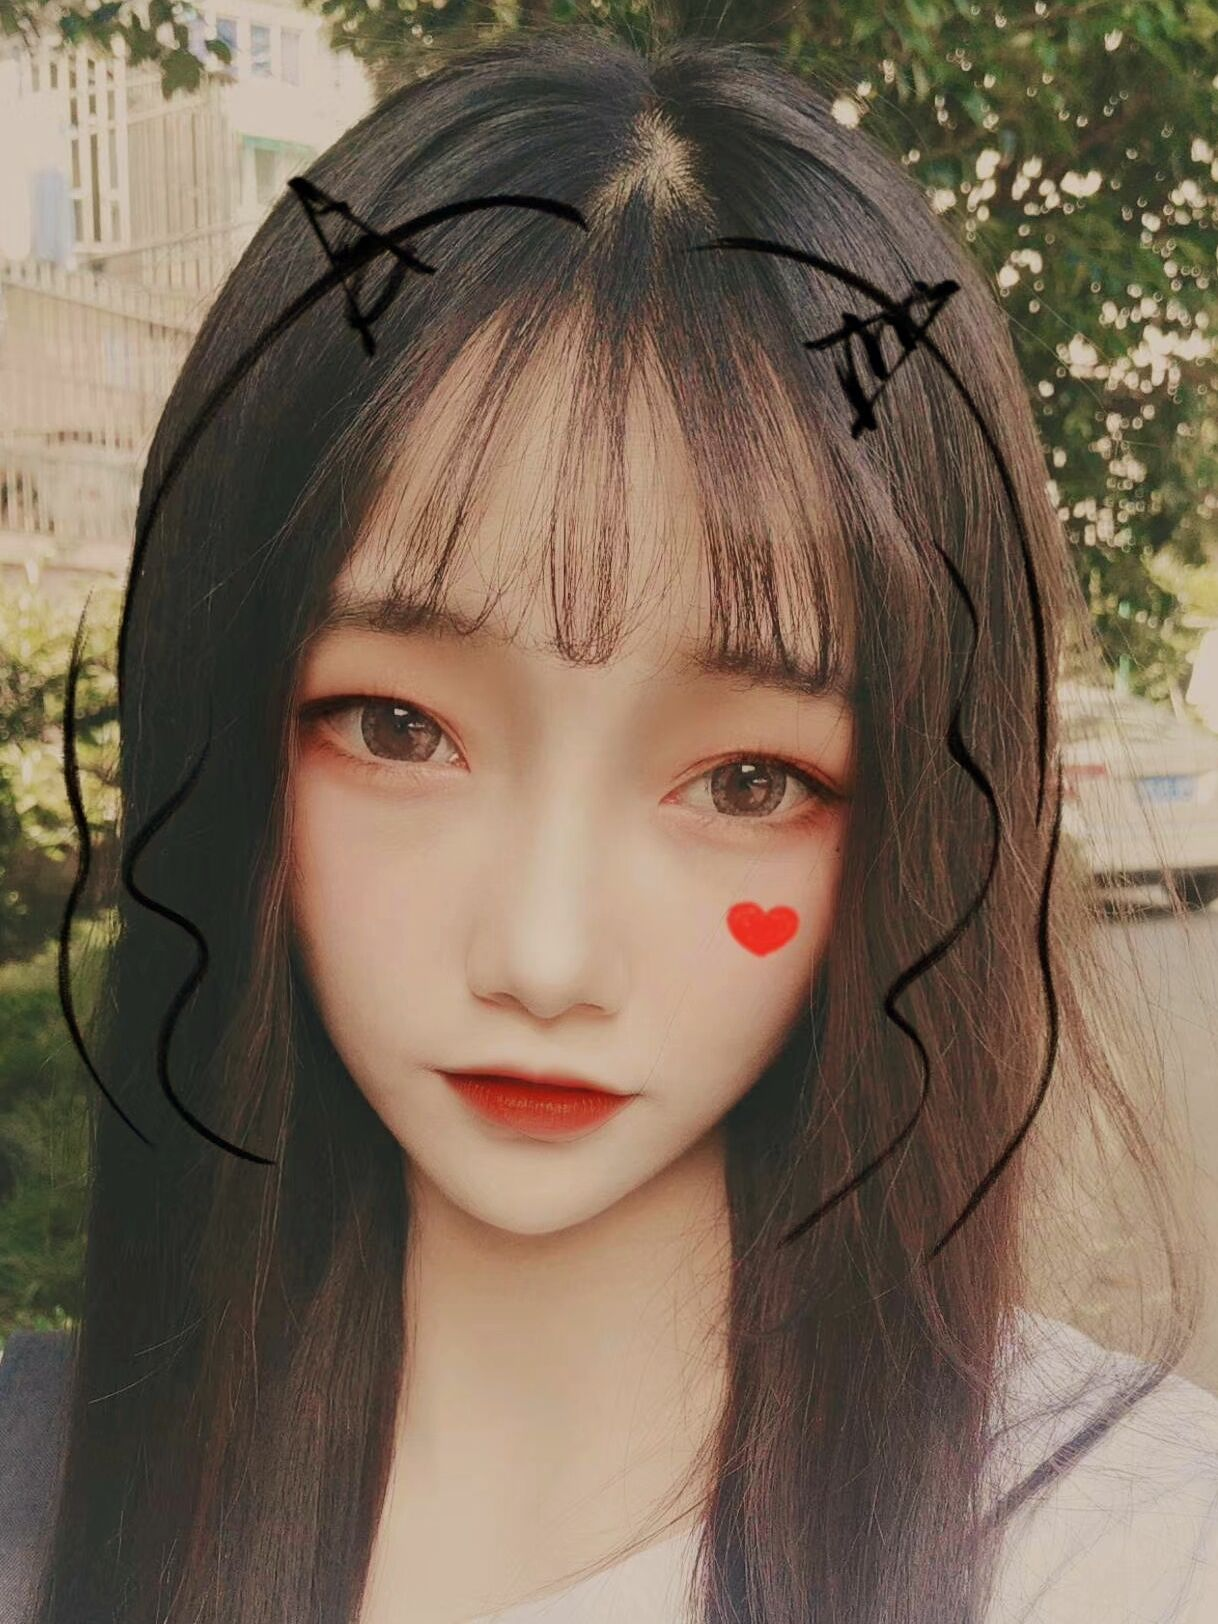
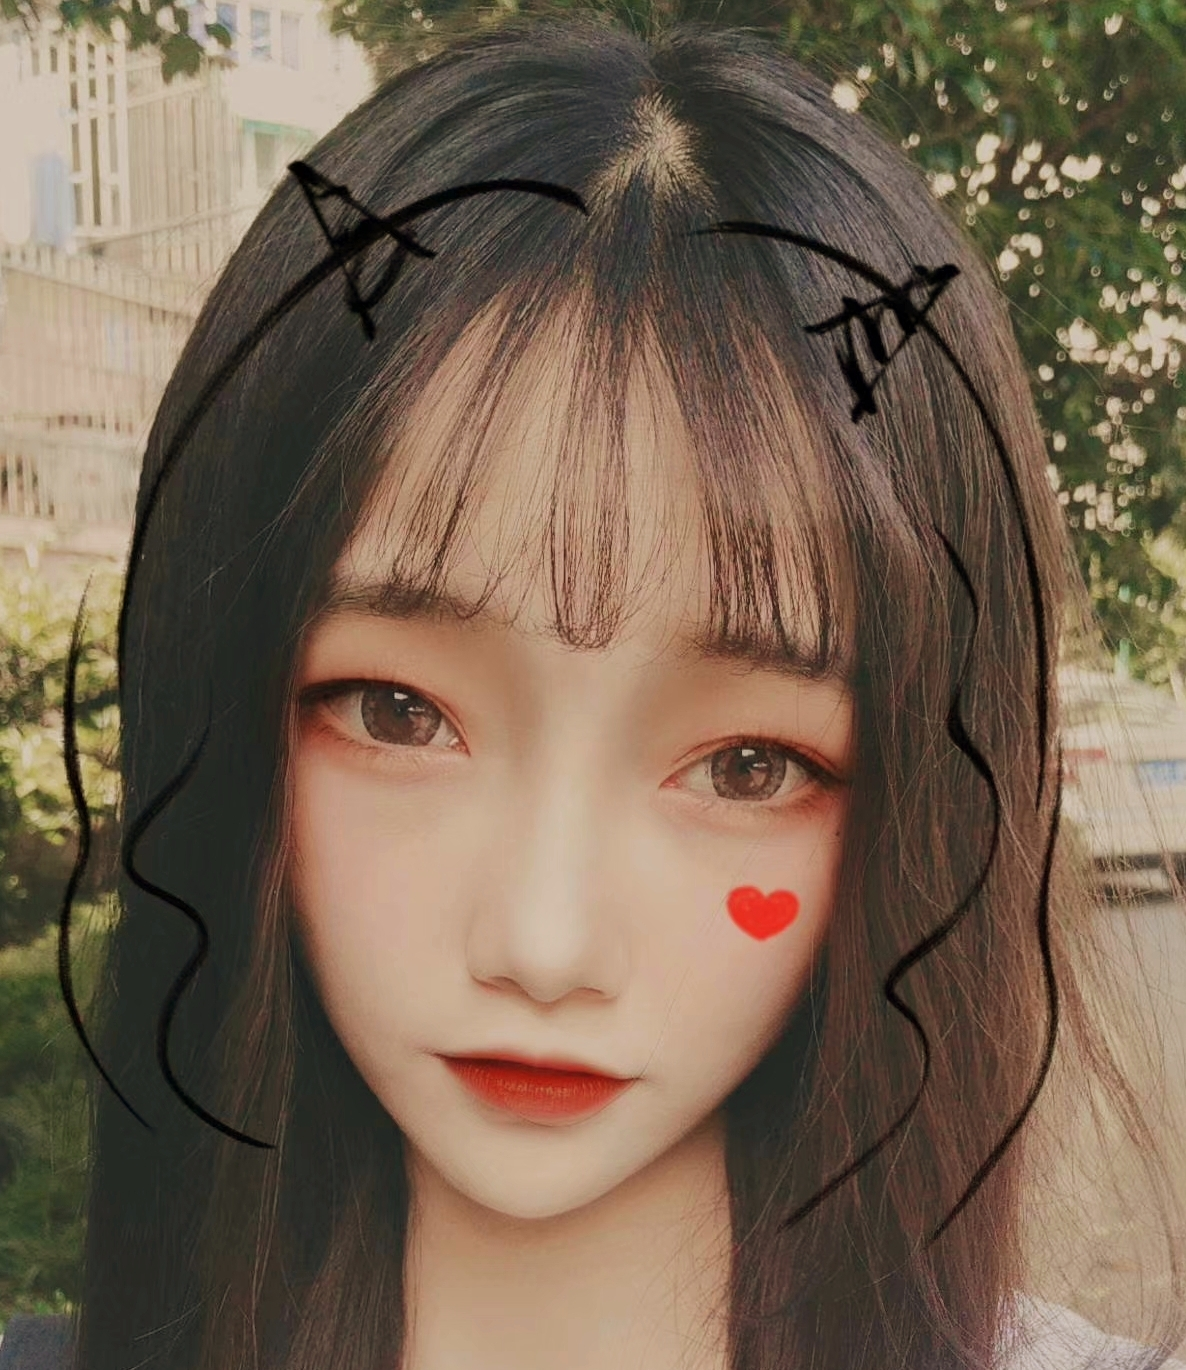
gasd

diff --git a/index.html b/index.html
@@ -46,7 +46,7 @@
         }
 
         img#logo {
-            width: 128px;
+            width: 160px;
             background-size: cover;
             border-radius: 200px;
             box-shadow: 0px 0px 40px rgba(63, 81, 181, 0.72);
@@ -110,7 +110,7 @@
 <body>
 <!--更改为你女朋友的头像-->
 <div class="cs">
-    <img src="http://raw.githubusercontent.com/WIN233/WIN233.github.io/master/jiajing.jpg" id="logo">
+    <img src="https://github.com/853616495/853616495.github.io/blob/master/liyongxi.jpg?raw=true" id="logo">
 </div>
 <canvas class="canvas" width="1820" height="905"></canvas>
 <p class="text" style="color: #ed3073;" id="timeText">
